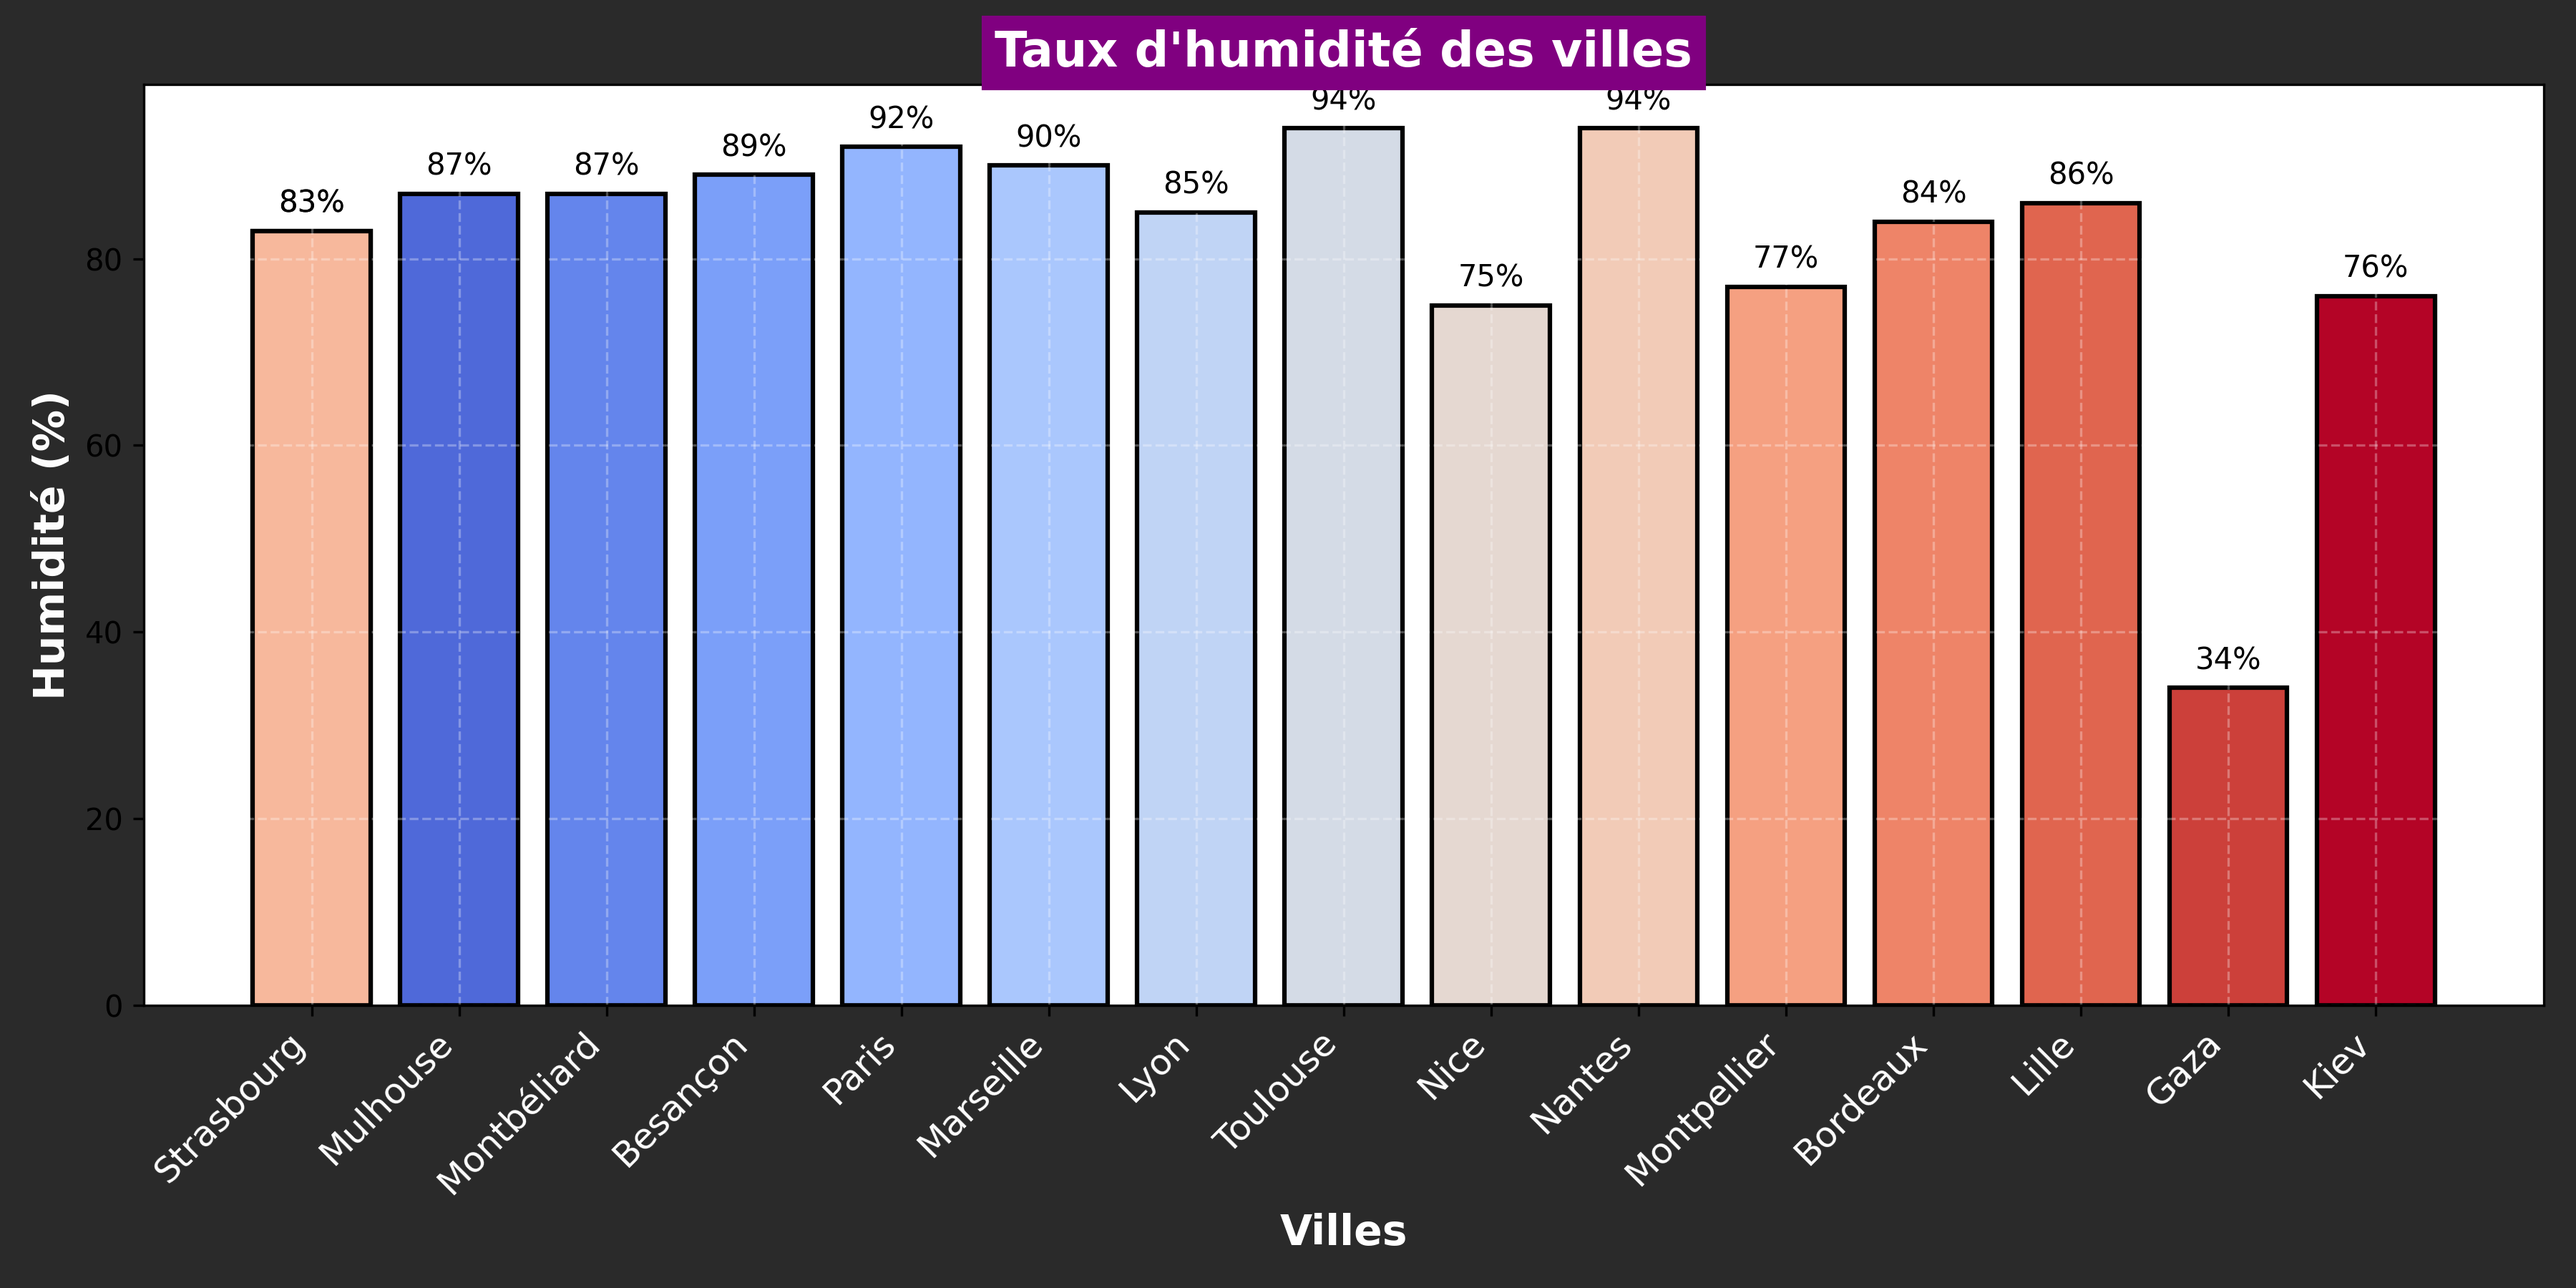
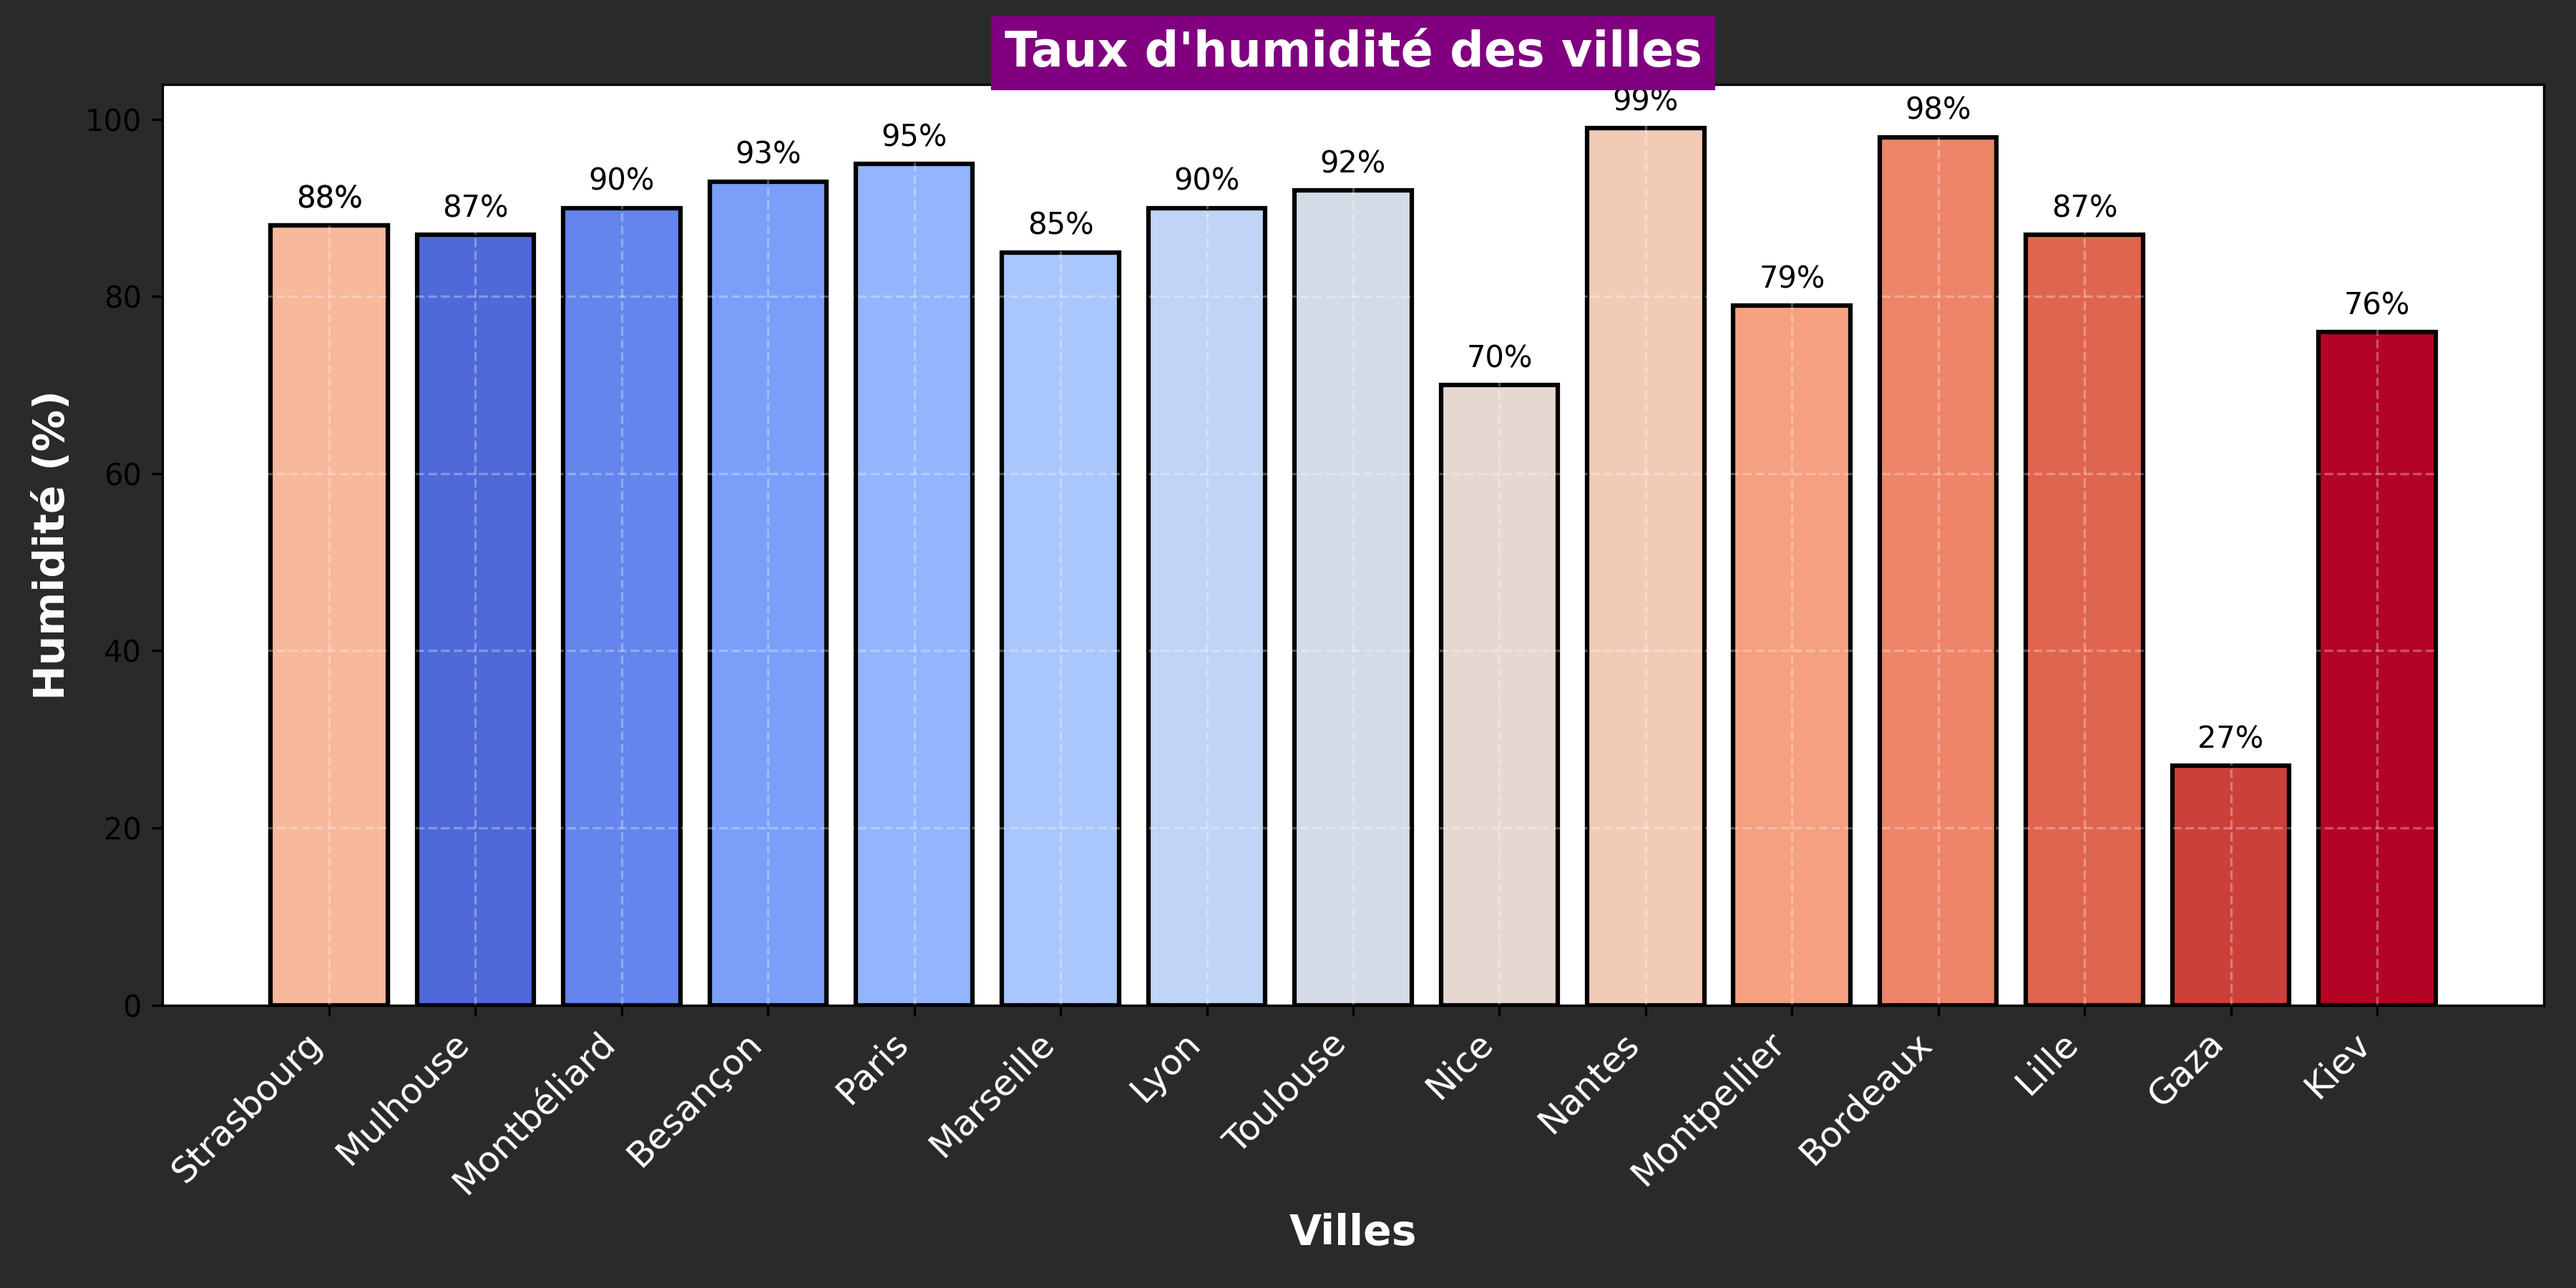
Mise à jour de la météo et ajout du graphique d'humidité

diff --git a/README.md b/README.md
@@ -24,103 +24,103 @@ Ce repo contient plusieurs workflows GitHub Actions :
 ## Météo actuelle :
 ## Météo des grandes villes + Gaza et Kiev 🌍
 
-🕒 Mise à jour : 27/03/2025 07:16:33
+🕒 Mise à jour : 28/03/2025 07:17:02
 
-### 🌍 Strasbourg 🌥
-**Conditions :** couvert
-**Température :** 6.89°C
-**Humidité :** 83%
-**Vent :** 5.14 m/s
+### 🌍 Strasbourg ☀
+**Conditions :** ciel dégagé
+**Température :** 4.56°C
+**Humidité :** 88%
+**Vent :** 2.06 m/s
 
 ### 🌍 Mulhouse 🌥
-**Conditions :** nuageux
-**Température :** 7.51°C
+**Conditions :** couvert
+**Température :** 5.29°C
 **Humidité :** 87%
-**Vent :** 3.09 m/s
+**Vent :** 0.51 m/s
 
-### 🌍 Montbéliard 🌥
-**Conditions :** nuageux
-**Température :** 7.02°C
-**Humidité :** 87%
-**Vent :** 4.43 m/s
-
-### 🌍 Besançon 🌥
-**Conditions :** partiellement nuageux
-**Température :** 5.72°C
-**Humidité :** 89%
-**Vent :** 2.82 m/s
-
-### 🌍 Paris ☀
+### 🌍 Montbéliard ☀
 **Conditions :** ciel dégagé
-**Température :** 3.43°C
-**Humidité :** 92%
-**Vent :** 1.54 m/s
-
-### 🌍 Marseille ☀
-**Conditions :** ciel dégagé
-**Température :** 7.45°C
+**Température :** 4.85°C
 **Humidité :** 90%
-**Vent :** 2.17 m/s
+**Vent :** 1.59 m/s
+
+### 🌍 Besançon ☀
+**Conditions :** ciel dégagé
+**Température :** 3.71°C
+**Humidité :** 93%
+**Vent :** 0.99 m/s
+
+### 🌍 Paris 🌫
+**Conditions :** brume
+**Température :** 4.92°C
+**Humidité :** 95%
+**Vent :** 4.63 m/s
+
+### 🌍 Marseille 🌥
+**Conditions :** peu nuageux
+**Température :** 7.19°C
+**Humidité :** 85%
+**Vent :** 2.31 m/s
 
 ### 🌍 Lyon 🌥
-**Conditions :** couvert
-**Température :** 7.55°C
-**Humidité :** 85%
-**Vent :** 0.45 m/s
+**Conditions :** peu nuageux
+**Température :** 4.84°C
+**Humidité :** 90%
+**Vent :** 1.34 m/s
 
 ### 🌍 Toulouse 🌥
 **Conditions :** couvert
-**Température :** 8.75°C
-**Humidité :** 94%
-**Vent :** 4.63 m/s
+**Température :** 7.62°C
+**Humidité :** 92%
+**Vent :** 6.17 m/s
 
-### 🌍 Nice ☀
-**Conditions :** ciel dégagé
-**Température :** -0.21°C
-**Humidité :** 75%
-**Vent :** 3.2 m/s
+### 🌍 Nice 🌥
+**Conditions :** couvert
+**Température :** 0.06°C
+**Humidité :** 70%
+**Vent :** 2.85 m/s
 
-### 🌍 Nantes ☀
-**Conditions :** ciel dégagé
-**Température :** 5.08°C
-**Humidité :** 94%
+### 🌍 Nantes 🌫
+**Conditions :** brume
+**Température :** 5.32°C
+**Humidité :** 99%
 **Vent :** 1.54 m/s
 
-### 🌍 Strasbourg 🌥
-**Conditions :** couvert
-**Température :** 6.89°C
-**Humidité :** 83%
-**Vent :** 5.14 m/s
+### 🌍 Strasbourg ☀
+**Conditions :** ciel dégagé
+**Température :** 4.56°C
+**Humidité :** 88%
+**Vent :** 2.06 m/s
 
 ### 🌍 Montpellier ☀
 **Conditions :** ciel dégagé
-**Température :** 8.89°C
-**Humidité :** 77%
+**Température :** 8.1°C
+**Humidité :** 79%
 **Vent :** 2.57 m/s
 
-### 🌍 Bordeaux 🌥
-**Conditions :** couvert
-**Température :** 9.41°C
-**Humidité :** 84%
-**Vent :** 2.06 m/s
+### 🌍 Bordeaux 🌫
+**Conditions :** brouillard
+**Température :** 7.18°C
+**Humidité :** 98%
+**Vent :** 3.6 m/s
 
 ### 🌍 Lille 🌫
 **Conditions :** brume
-**Température :** 2.16°C
-**Humidité :** 86%
-**Vent :** 0.51 m/s
+**Température :** 5.09°C
+**Humidité :** 87%
+**Vent :** 2.06 m/s
 
 ### 🌍 Gaza 🌥
 **Conditions :** couvert
-**Température :** 23.4°C
-**Humidité :** 34%
-**Vent :** 4.1 m/s
+**Température :** 26.46°C
+**Humidité :** 27%
+**Vent :** 5.84 m/s
 
 ### 🌍 Kiev 🌥
 **Conditions :** partiellement nuageux
-**Température :** 8.87°C
+**Température :** 7.86°C
 **Humidité :** 76%
-**Vent :** 1.51 m/s
+**Vent :** 0.45 m/s
 
 <p align='center'><img src='https://raw.githubusercontent.com/khoa083/khoa/main/Khoa_ne/img/Rainbow.gif' width='100%' style='border-radius: 5px; border: 3px solid #39FF14; box-shadow: 0 0 10px #39FF14, 0 0 20px #39FF14;' /></p>
 
